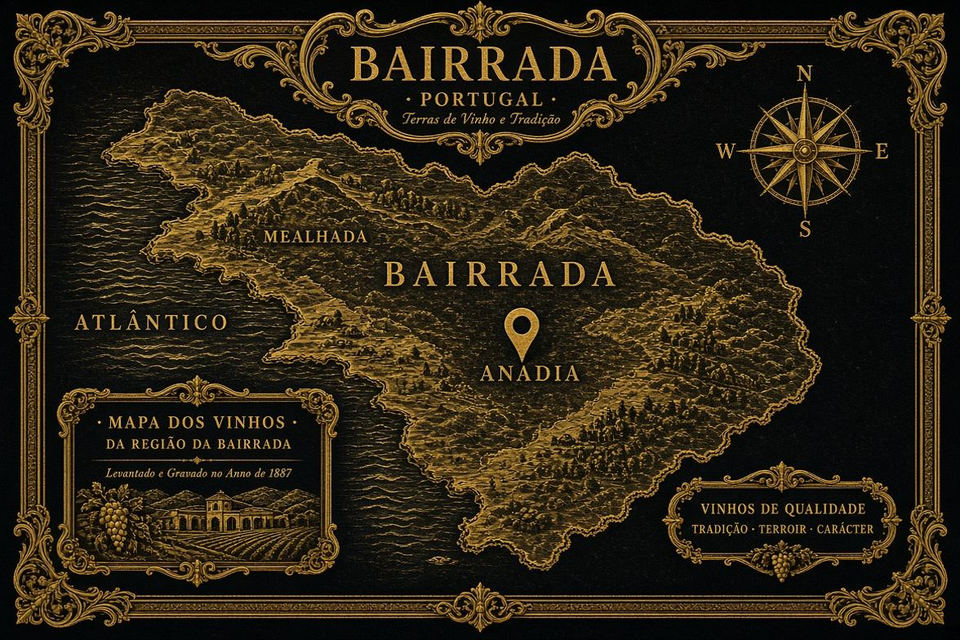
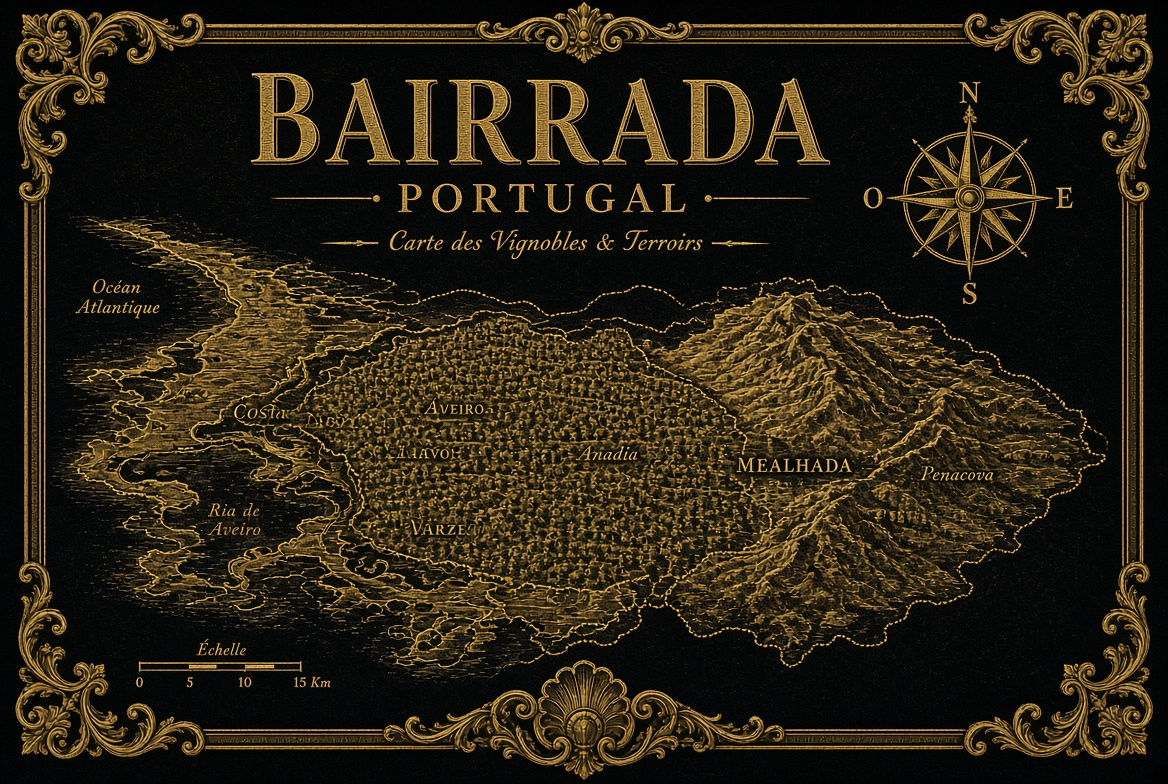
Add files via upload

diff --git a/app.js b/app.js
@@ -386,18 +386,61 @@ function quickTaste() {
 }
 function openHomeMap() { show("zonas"); }
 
+const ZONE_PLATE = {
+  "Rioja": "mapa-rioja.jpg",
+  "Ribera del Duero": "mapa-ribera.jpg",
+  "Priorat": "mapa-priorat.jpg",
+  "Rías Baixas": "mapa-rias.jpg",
+  "Toro": "mapa-toro.jpg",
+  "Rueda": "mapa-rueda.jpg",
+  "Bierzo": "mapa-bierzo.jpg",
+  "Navarra": "mapa-navarra.jpg",
+  "Somontano": "mapa-somontano.jpg",
+  "Costers del Segre": "mapa-costers.jpg",
+  "Penedès": "mapa-penedes.jpg",
+  "Corpinnat": "mapa-penedes.jpg",
+  "Alicante": "mapa-alicante.jpg",
+  "Jerez": "mapa-jerez.jpg",
+  "Douro": "mapa-douro.jpg",
+  "Alentejo": "mapa-alentejo.jpg",
+  "Vinho Verde": "mapa-vinhoverde.jpg",
+  "Dão": "mapa-dao.jpg",
+  "Bairrada": "mapa-bairrada.jpg",
+  "Champagne": "mapa-champagne.jpg",
+  "Médoc": "mapa-medoc.jpg",
+  "Borgoña": "mapa-borgona.jpg",
+  "Ródano": "mapa-rhone.jpg",
+  "Loira": "mapa-loira.jpg",
+  "Bolgheri": "mapa-bolgheri.jpg",
+  "Barossa": "mapa-barossa.jpg"
+};
 const ZONES = [
   { name: "Rioja", country: "España", img: "vinedo-rioja.jpg", map: "mapa-rioja.jpg", keys: "rioja haro alavesa alta" },
   { name: "Ribera del Duero", country: "España", img: "vinedo-ribera.jpg", map: "mapa-ribera.jpg", keys: "ribera duero valbuena pingus vega" },
   { name: "Priorat", country: "España", img: "vinedo-priorat.jpg", map: "mapa-priorat.jpg", keys: "priorat prior gratallops" },
   { name: "Rías Baixas", country: "España", img: "vinedo-rias.jpg", map: "mapa-rias.jpg", keys: "rías rias baixas albariño albarino salnés" },
+  { name: "Toro", country: "España", img: "vinedo-ribera.jpg", map: "mapa-toro.jpg", keys: "toro numanthia" },
+  { name: "Rueda", country: "España", img: "vinedo-ribera.jpg", map: "mapa-rueda.jpg", keys: "rueda verdejo" },
+  { name: "Bierzo", country: "España", img: "vinedo-priorat.jpg", map: "mapa-bierzo.jpg", keys: "bierzo mencía ponferrada" },
+  { name: "Navarra", country: "España", img: "vinedo-rioja.jpg", map: "mapa-navarra.jpg", keys: "navarra pamplona" },
+  { name: "Somontano", country: "España", img: "vinedo-costers.jpg", map: "mapa-somontano.jpg", keys: "somontano barbastro huesca" },
+  { name: "Costers del Segre", country: "España", img: "vinedo-costers.jpg", map: "mapa-costers.jpg", keys: "costers segre raïmat raimat lleida" },
+  { name: "Penedès", country: "España", img: "vinedo-champagne.jpg", map: "mapa-penedes.jpg", keys: "penedès penedes cava" },
+  { name: "Corpinnat", country: "España", img: "vinedo-champagne.jpg", map: "mapa-penedes.jpg", keys: "corpinnat gramona" },
+  { name: "Alicante", country: "España", img: "vinedo.jpg", map: "mapa-alicante.jpg", keys: "alicante mendoza alfaz" },
+  { name: "Jerez", country: "España", img: "vinedo-margaux.jpg", map: "mapa-jerez.jpg", keys: "jerez sherry sanlúcar sanlucar" },
+  { name: "Douro", country: "Portugal", img: "mapa-douro.jpg", map: "mapa-douro.jpg", keys: "douro porto pinhao régua regua" },
+  { name: "Alentejo", country: "Portugal", img: "mapa-alentejo.jpg", map: "mapa-alentejo.jpg", keys: "alentejo évora evora" },
+  { name: "Vinho Verde", country: "Portugal", img: "mapa-vinhoverde.jpg", map: "mapa-vinhoverde.jpg", keys: "vinho verde minho monção moncao" },
+  { name: "Dão", country: "Portugal", img: "mapa-dao.jpg", map: "mapa-dao.jpg", keys: "dão dao viseu" },
+  { name: "Bairrada", country: "Portugal", img: "mapa-bairrada.jpg", map: "mapa-bairrada.jpg", keys: "bairrada baga mealhada" },
   { name: "Champagne", country: "Francia", img: "vinedo-champagne.jpg", map: "mapa-champagne.jpg", keys: "champagne pérignon perignon" },
   { name: "Médoc", country: "Francia", img: "vinedo-margaux.jpg", map: "mapa-medoc.jpg", keys: "médoc medoc margaux bordeaux" },
+  { name: "Borgoña", country: "Francia", img: "mapa-borgona.jpg", map: "mapa-borgona.jpg", keys: "borgoña bourgogne burgundy beaune" },
+  { name: "Ródano", country: "Francia", img: "mapa-rhone.jpg", map: "mapa-rhone.jpg", keys: "ródano rhone rhône chateauneuf" },
+  { name: "Loira", country: "Francia", img: "mapa-loira.jpg", map: "mapa-loira.jpg", keys: "loira loire sancerre vouvray" },
   { name: "Bolgheri", country: "Italia", img: "vinedo-bolgheri.jpg", map: "mapa-bolgheri.jpg", keys: "bolgheri sassicaia toscana" },
-  { name: "Corpinnat", country: "España", img: "vinedo-champagne.jpg", map: "mapa-penedes.jpg", keys: "corpinnat penedès penedes gramona cava" },
-  { name: "Toro", country: "España", img: "vinedo-ribera.jpg", map: "mapa-ribera.jpg", keys: "toro numanthia" },
-  { name: "Alicante", country: "España", img: "vinedo.jpg", map: "mapa-rioja.jpg", keys: "alicante mendoza" },
-  { name: "South Australia", country: "Australia", img: "vinedo-margaux.jpg", map: "mapa-medoc.jpg", keys: "australia barossa grange penfolds" }
+  { name: "Barossa", country: "Australia", img: "vinedo-margaux.jpg", map: "mapa-barossa.jpg", keys: "australia barossa grange penfolds" }
 ];
 function winesInZone(z) {
   const keys = (z.keys || z.name).toLowerCase().split(/\s+/);
@@ -411,8 +454,9 @@ function renderZonas(q) {
   const list = ZONES.filter(z => !query || (z.name + " " + z.country + " " + z.keys).toLowerCase().includes(query));
   const html = list.map(z => {
     const n = winesInZone(z).length;
+    const plate = ZONE_PLATE[z.name] || z.map || z.img;
     return `<button class="zone-tile" onclick="openZona('${z.name.replace(/'/g, "\\'")}')">
-      <img src="${z.img}" alt="${z.name}">
+      <img src="${plate}" alt="${z.name}">
       <span><b>${z.name}</b><small>${z.country} · ${n} vinos</small></span>
     </button>`;
   }).join("");
@@ -420,7 +464,7 @@ function renderZonas(q) {
     <button class="back" onclick="goBack()">‹ ${backCaption()}</button>
     <p class="eyebrow">Mi Vinoteca</p>
     <h1>Zonas vinícolas</h1>
-    <div class="search" style="margin:12px 0"><input id="zona-q" type="search" placeholder="Buscar Rioja, Champagne, Toro…" value="${(q || "").replace(/"/g, "")}" oninput="renderZonas(this.value)"></div>
+    <div class="search" style="margin:12px 0"><input id="zona-q" type="search" placeholder="Rioja, Douro, Champagne, Loira…" value="${(q || "").replace(/"/g, "")}" oninput="renderZonas(this.value)"></div>
     <p class="muted">Toca una zona para ver el mapa y los vinos.</p>
     <div class="zone-grid">${html || "<p class='empty'>Ninguna zona con ese nombre.</p>"}</div>`;
   const box = $("#zona-q");
@@ -691,9 +735,9 @@ function estateArt(w) {
     "Moët & Chandon": { land: "vinedo-champagne.jpg", cap: "capsula.jpg", map: "mapa-champagne.jpg" },
     "Gramona": { land: "vinedo-champagne.jpg", cap: "capsula.jpg", map: "mapa-penedes.jpg" },
     "Tenuta San Guido": { land: "vinedo-bolgheri.jpg", cap: "capsula.jpg", map: "mapa-bolgheri.jpg" },
-    "Penfolds": { land: "vinedo-margaux.jpg", cap: "capsula.jpg", map: "mapa-medoc.jpg" },
-    "Enrique Mendoza": { land: "vinedo.jpg", cap: "capsula.jpg", map: "" },
-    "Numanthia": { land: "vinedo-ribera.jpg", cap: "capsula.jpg", map: "mapa-ribera.jpg" }
+    "Penfolds": { land: "vinedo-margaux.jpg", cap: "capsula.jpg", map: "mapa-barossa.jpg" },
+    "Enrique Mendoza": { land: "vinedo.jpg", cap: "capsula.jpg", map: "mapa-alicante.jpg" },
+    "Numanthia": { land: "vinedo-ribera.jpg", cap: "capsula.jpg", map: "mapa-toro.jpg" }
   };
   const hit = byProducer[w.producer];
   if (hit) return hit;
@@ -706,9 +750,23 @@ function estateArt(w) {
   if (/corpinnat|penedès|penedes|cava/.test(zone)) return { land: "vinedo-champagne.jpg", cap: "capsula.jpg", map: "mapa-penedes.jpg" };
   if (/champagne/.test(zone)) return { land: "vinedo-champagne.jpg", cap: "capsula.jpg", map: "mapa-champagne.jpg" };
   if (/bolgheri|toscana/.test(zone)) return { land: "vinedo-bolgheri.jpg", cap: "capsula.jpg", map: "mapa-bolgheri.jpg" };
-  if (/alicante|marina/.test(zone)) return { land: "vinedo.jpg", cap: "capsula.jpg", map: "mapa-rioja.jpg" };
-  if (/australia|barossa/.test(zone)) return { land: "vinedo-margaux.jpg", cap: "capsula.jpg", map: "mapa-medoc.jpg" };
-  if (/toro/.test(zone)) return { land: "vinedo-ribera.jpg", cap: "capsula.jpg", map: "mapa-ribera.jpg" };
+  if (/douro|porto/.test(zone)) return { land: "mapa-douro.jpg", cap: "capsula.jpg", map: "mapa-douro.jpg" };
+  if (/alentejo/.test(zone)) return { land: "mapa-alentejo.jpg", cap: "capsula.jpg", map: "mapa-alentejo.jpg" };
+  if (/vinho verde|minho/.test(zone)) return { land: "mapa-vinhoverde.jpg", cap: "capsula.jpg", map: "mapa-vinhoverde.jpg" };
+  if (/dão|dao /.test(zone) || zone.includes("dão")) return { land: "mapa-dao.jpg", cap: "capsula.jpg", map: "mapa-dao.jpg" };
+  if (/bairrada/.test(zone)) return { land: "mapa-bairrada.jpg", cap: "capsula.jpg", map: "mapa-bairrada.jpg" };
+  if (/bourgogne|borgoña|burgundy/.test(zone)) return { land: "mapa-borgona.jpg", cap: "capsula.jpg", map: "mapa-borgona.jpg" };
+  if (/rhône|rhone|ródano/.test(zone)) return { land: "mapa-rhone.jpg", cap: "capsula.jpg", map: "mapa-rhone.jpg" };
+  if (/loire|loira/.test(zone)) return { land: "mapa-loira.jpg", cap: "capsula.jpg", map: "mapa-loira.jpg" };
+  if (/alicante|marina/.test(zone)) return { land: "vinedo.jpg", cap: "capsula.jpg", map: "mapa-alicante.jpg" };
+  if (/australia|barossa/.test(zone)) return { land: "vinedo-margaux.jpg", cap: "capsula.jpg", map: "mapa-barossa.jpg" };
+  if (/toro/.test(zone)) return { land: "vinedo-ribera.jpg", cap: "capsula.jpg", map: "mapa-toro.jpg" };
+  if (/costers|segre|raïmat|raimat/.test(zone)) return { land: "vinedo-costers.jpg", cap: "capsula.jpg", map: "mapa-costers.jpg" };
+  if (/rueda/.test(zone)) return { land: "vinedo-ribera.jpg", cap: "capsula.jpg", map: "mapa-rueda.jpg" };
+  if (/jerez|sherry/.test(zone)) return { land: "vinedo-margaux.jpg", cap: "capsula.jpg", map: "mapa-jerez.jpg" };
+  if (/navarra/.test(zone)) return { land: "vinedo-rioja.jpg", cap: "capsula.jpg", map: "mapa-navarra.jpg" };
+  if (/bierzo/.test(zone)) return { land: "vinedo-priorat.jpg", cap: "capsula.jpg", map: "mapa-bierzo.jpg" };
+  if (/somontano/.test(zone)) return { land: "vinedo-costers.jpg", cap: "capsula.jpg", map: "mapa-somontano.jpg" };
   return { land: "vinedo-rioja.jpg", cap: "capsula.jpg", map: "mapa-rioja.jpg" };
 }
 

diff --git a/sw.js b/sw.js
@@ -1,4 +1,4 @@
-const CACHE = "casa-llavaneras-ios-v21";
+const CACHE = "casa-llavaneras-ios-v23";
 const ASSETS = ["./", "./index.html", "./styles.css", "./app.js", "./wines.js", "./dossiers.js", "./providers/wineProvider.js", "./pairings.js", "./manifest.json", "./icon.svg", "./apple-touch-icon.png", "./icon-192.png", "./icon-512.png", "./cave-principal.jpg", "./capsula.jpg"];
 self.addEventListener("install", e => {
   self.skipWaiting();
